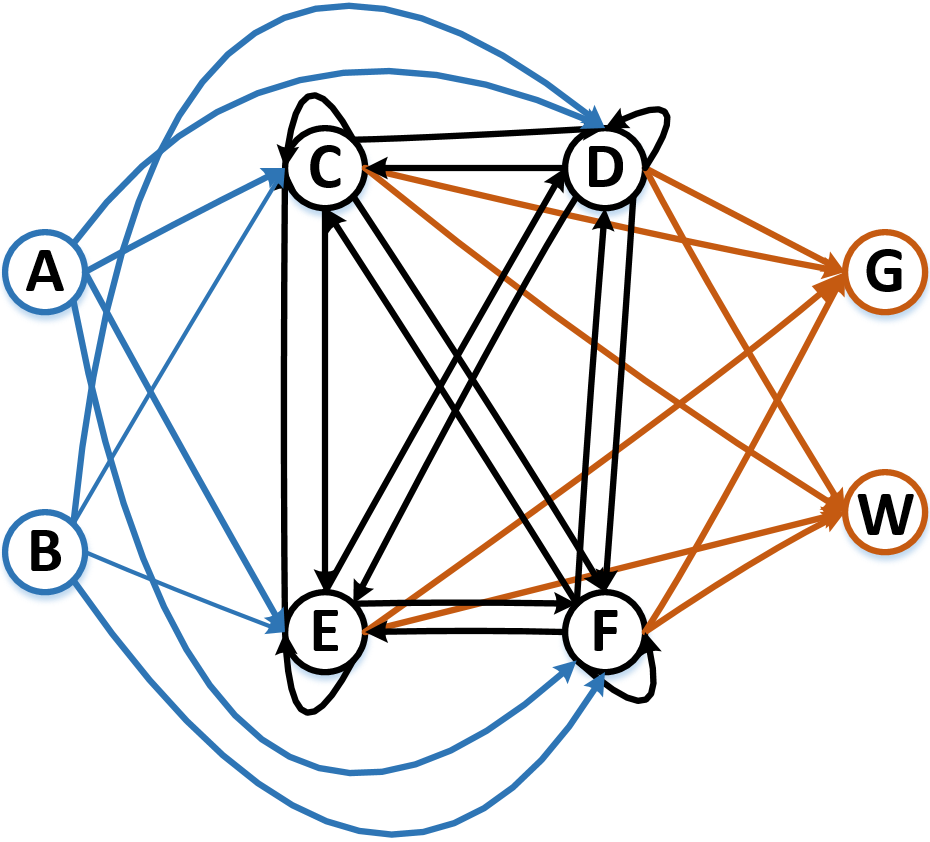
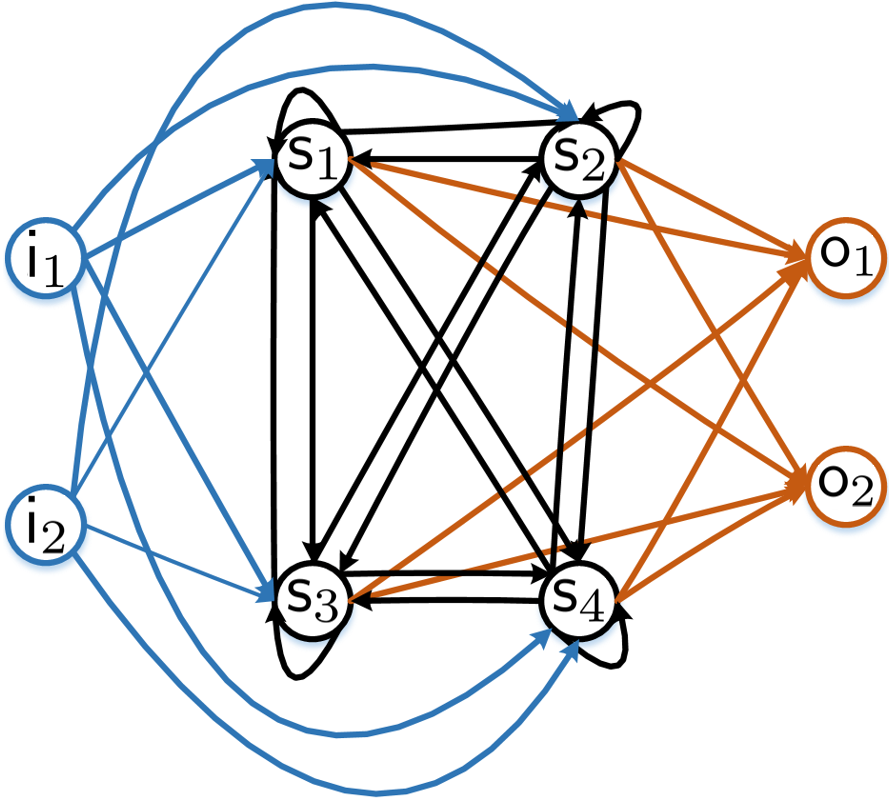
0830
0830

diff --git a/For journal/sec/preliminaries.tex b/For journal/sec/preliminaries.tex
@@ -32,7 +32,7 @@ These two functions are called the  {\bf updating rules}  of $\BB$.
  \end{definition}
 It is noted that there are two sets of edges in $E$, that is $(I\cup S)\times S$ and $S\times O$. An edge $(v,v')$ represents that the value of node $v'$ is directly affected by the value of $v$, and the updating rules reflect how a node is affected by the other nodes. 
 
-Furthermore, we use $i$ to represent a vector $(i_1,\ldots i_\ell)$ of input values, $s$ a vector $(s_1,\ldots s_m)$ of state values, and $o$ a vector $(o_1,\ldots o_n)$ of output values, which called an {\em input}, a {\em state} and an {\em output} for simplicity.  And at any time $t\in \mathbb{T}$ during the execution of $\BB$, we use $i(t)$, $s(t)$, and $o(t)$ to represent the input $(i_1(t),\ldots i_\ell(t))$, state $(s_1(t),\ldots s_m(t))$  and  output $(o_1(t),\ldots o_n(t))$ at time $t$, respectively. We use $\mathcal{I}_\BB$, and $\mathcal{S}_\BB$ and $\mathcal{O}_\BB$ to represent the sets of all possible inputs, states and outputs of $\BB$, respectively. And we will omit the subscript $\BB$ when there is no confusion. Obviously, $\mathcal{I}_\BB$, and $\mathcal{S}_\BB$ and $\mathcal{O}_\BB$ are finite with $2^\ell$, $2^m$ and $2^n$ elements, respectively.
+Furthermore, we use $\mathsf{i}$ to represent a vector $(\mathsf{i}_1,\ldots \mathsf{i}_\ell)$ of input values, $\mathsf{s}$ a vector $(\mathsf{s}_1,\ldots \mathsf{s}_m)$ of state values, and $\mathsf{o}$ a vector $(\mathsf{o}_1,\ldots \mathsf{o}_n)$ of output values, which called an {\em input}, a {\em state} and an {\em output} for simplicity.  And at any time $t\in \mathbb{T}$ during the execution of $\BB$, we use $\mathsf{i}(t)$, $\mathsf{s}(t)$, and $\mathsf{o}(t)$ to represent the input $(\mathsf{i}_1(t),\ldots \mathsf{i}_\ell(t))$, state $(\mathsf{s}_1(t),\ldots \mathsf{s}_m(t))$  and  output $(\mathsf{o}_1(t),\ldots \mathsf{o}_n(t))$ at time $t$, respectively. We use $\mathcal{I}_\BB$, and $\mathcal{S}_\BB$ and $\mathcal{O}_\BB$ to represent the sets of all possible inputs, states and outputs of $\BB$, respectively. And we will omit the subscript $\BB$ when there is no confusion. Obviously, $\mathcal{I}_\BB$, and $\mathcal{S}_\BB$ and $\mathcal{O}_\BB$ are finite with $2^\ell$, $2^m$ and $2^n$ elements, respectively.
 
 
 \begin{figure}[!t]
@@ -56,14 +56,14 @@ Furthermore, we use $i$ to represent a vector $(i_1,\ldots i_\ell)$ of input val
 		\label{fig:1}
 	\end{figure}
 %	
-Let $\BB$ be the \BCN\  shown in Fig.~\ref{fig:1} which has two  input-nodes $I=\{i_1,i_2\}$ , four state-nodes $S=\{s_1, s_2,s_3, s_4\}$ and two output-nodes $O=\{o_1,o_2\}$. 
+Let $\BB$ be the \BCN\  shown in Fig.~\ref{fig:1} which has two  input-nodes $I=\{\mathsf{i}_1,\mathsf{i}_2\}$ , four state-nodes $S=\{\mathsf{s}_1, \mathsf{s}_2,\mathsf{s}_3, \mathsf{s}_4\}$ and two output-nodes $O=\{\mathsf{o}_1,\mathsf{o}_2\}$. 
 The updating rules $\sigma: \mathbb{B}^{6}\mapsto \mathbb{B}^4$ and $\rho:\mathbb{B}^4\mapsto \mathbb{B}^2$ are given in the truth table (Fig.~\ref{fig:2}) from which the updating rules in terms of logic functions can be easily recovered.   For instance, %from the truth table we have 
-the updating rule of output-node $o_1$ is 
-$o_1(t)=s_1(t)\vee {({s_2}(t)\wedge { s_3}(t)\wedge {s_4}(t))}.$
+the updating rule of output-node $\mathsf{o}_1$ is 
+$\mathsf{o}_1(t)=\mathsf{s}_1(t)\vee {({\mathsf{s}_2}(t)\wedge { \mathsf{s}_3}(t)\wedge {\mathsf{s}_4}(t))}$. 
  \begin{figure}[thpb]
 	\centering
 	\framebox{\parbox{3in}{
-			\centerline{\includegraphics[scale=0.261]{figures/Fig2.png}}
+			\centerline{\includegraphics[scale=0.343]{figures/Fig2.png}}
 	}}
 	\caption{The truth table which describe the updating rules of the \BCN\ shown in Fig.~\ref{fig:1}.}
 	\label{fig:2}

diff --git a/For journal/sec/introduction.tex b/For journal/sec/introduction.tex
@@ -31,7 +31,7 @@ A {\em timed run}  (or {\em execution}) up to time point $k$ of  $\BB$ is a sequ
 
 \begin{itemize}
 \item the {\em initial state} $\mathsf{s}(0)$ is given according to some conditions;
-	\item the output $\mathsf{o}(t)$ at time $t$ is determined by the state $\mathsf{s}(t)$ at time $t$, that is, there exists a Boolean functions $\rho$ such that $\mathsf{o}(t)=\rho(\mathsf{s}(t))$; 
+	\item the output $\mathsf{o}(t)$ at time $t$ is determined by the state $\mathsf{s}(t)$ at time $t$, that is there exists a Boolean functions $\rho$ such that $\mathsf{o}(t)=\rho(\mathsf{s}(t))$; 
 	\item the state $\mathsf{s}(t+1)$ at time $t+1$ is determined by the input $\mathsf{i}(t)$ and state $\mathsf{s}(t)$ at time point $t$, that is there is a Boolean functions $\sigma$ such that $\mathsf{s}(t+1)=\sigma(\mathsf{i}(t),\mathsf{s}(t))$.
 \end{itemize}
  These functions are called the {\em updating rules} of $\BB$ and an execution from an initial state is driven by the input sequence.
